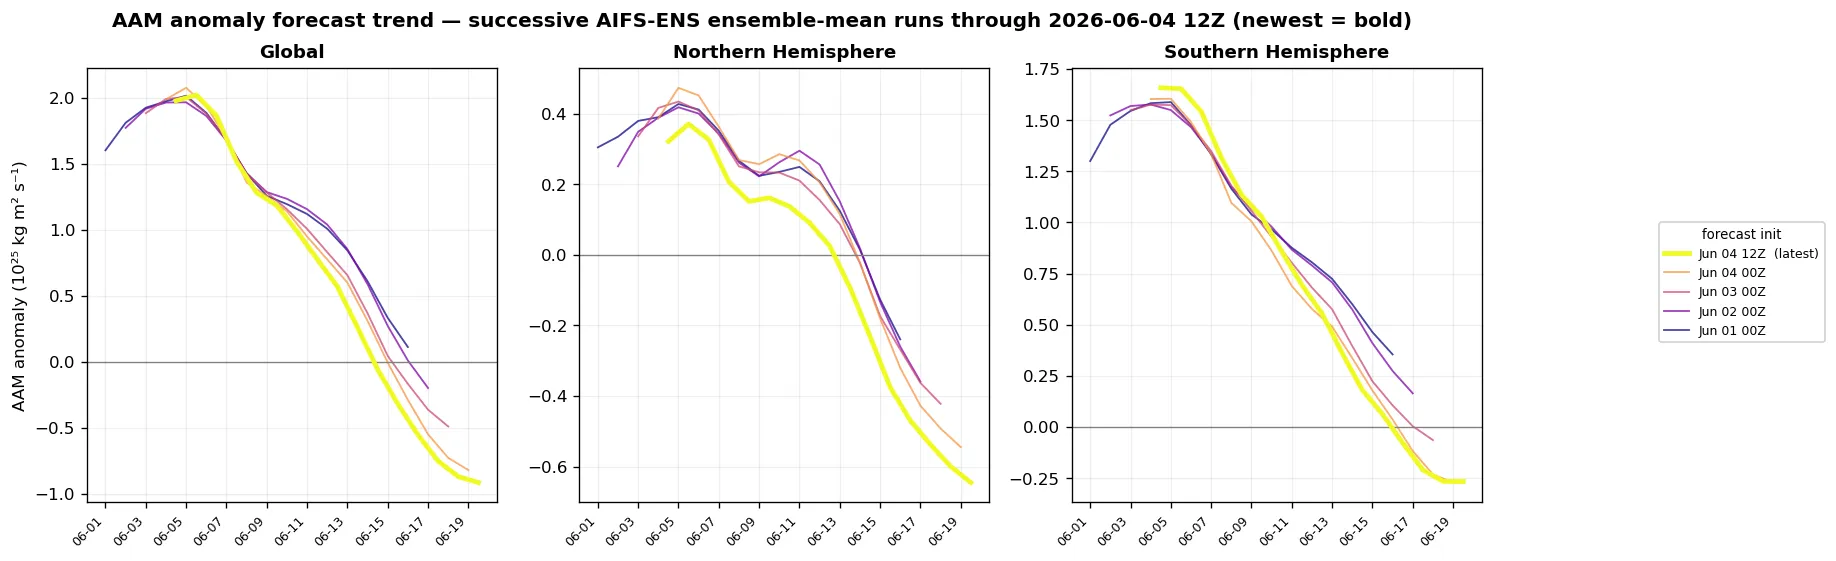
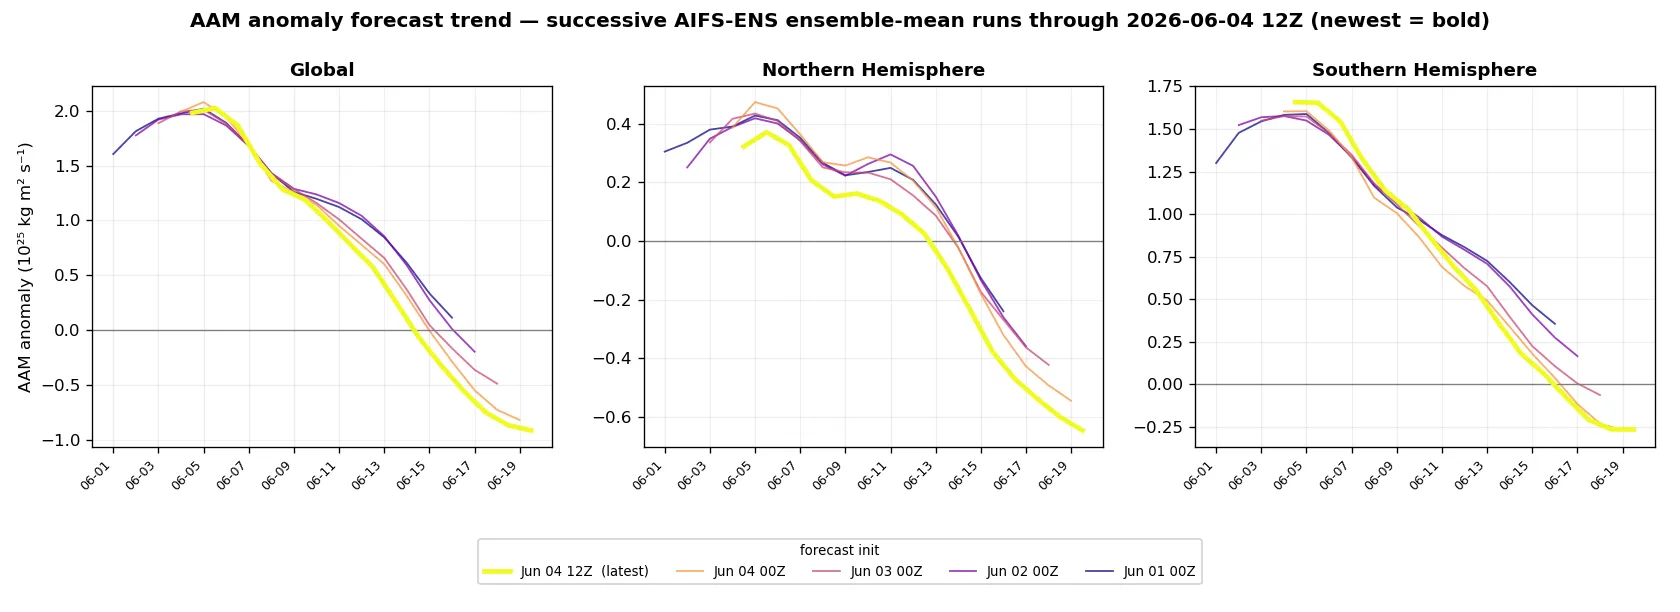
SST page: AAM trend card — drop blurb, legend below panels
Remove the descriptive paragraph from the AAM Forecast Trend card, and move the
run legend from the right margin to a row beneath the three panels so the Global/
NH/SH plots use the full width (no right-side whitespace).

Changed region(s): [[0.0, 0.0, 0.9905, 0.9697], [0.8048, 0.2424, 1.0, 0.697], [0.8048, 0.6061, 0.8357, 0.6364]]

diff --git a/sst.html b/sst.html
@@ -408,7 +408,6 @@
     <div class="chart-card">
       <div class="chart-card-header">
         <h2>AAM Forecast Trend (run-to-run)</h2>
-        <p>Each line is one AIFS-ENS run's ensemble-mean AAM <i>anomaly</i> forecast &mdash; for the globe and each hemisphere &mdash; with successive runs coloured oldest&rarr;newest (newest bold). Watching the lines shift run-to-run shows whether the outlook is trending more or less anomalous, and how consistent (or jumpy) the forecast is. The archive grows with each daily run.</p>
       </div>
       <div class="img-wrap"><img src="assets/sst/aam_trend.webp?v=202606042223" alt="Run-to-run trend of AIFS-ENS ensemble-mean AAM anomaly forecasts, global and hemispheric" loading="lazy"></div>
       <div class="chart-card-footer"><span class="chart-sources">ECMWF AIFS-ENS (open data, CC BY 4.0) &middot; anomaly vs ERA5 1991&ndash;2020 (Copernicus C3S) &middot; archived each cycle</span></div>
